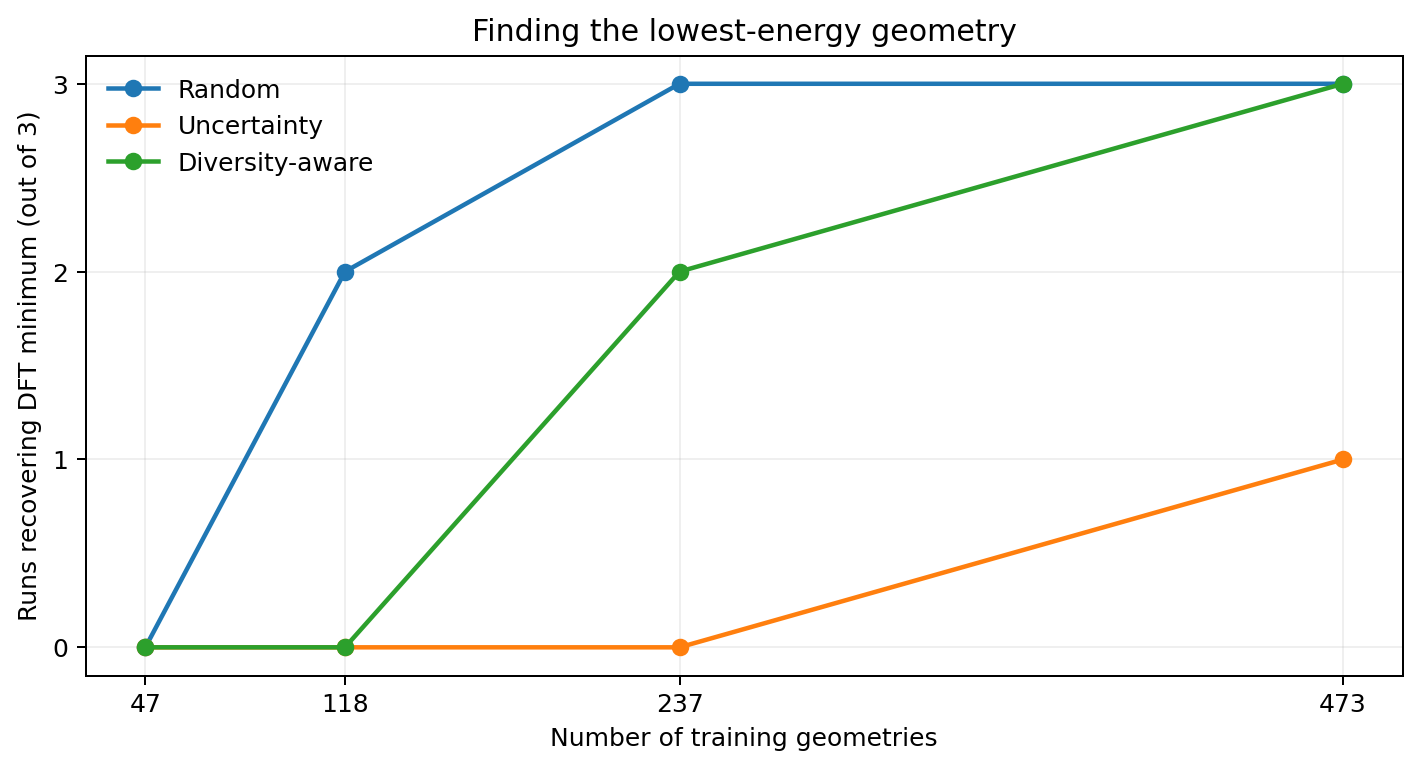
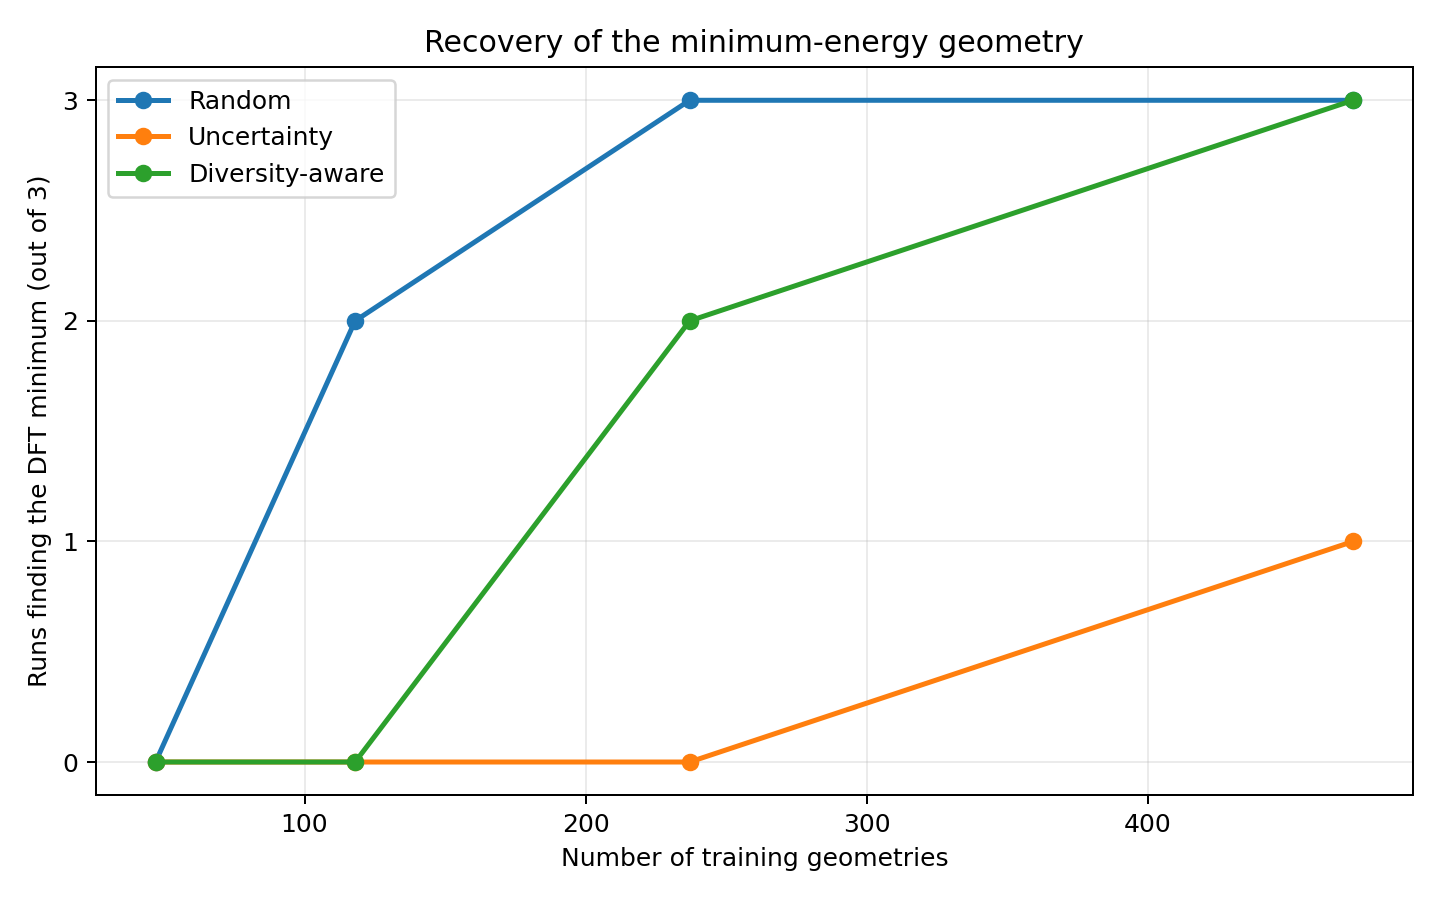
Add files via upload

diff --git a/README.md b/README.md
@@ -1,0 +1,49 @@
+# Learning the Au–CO₂⁺ potential energy surface with Gaussian Process Regression
+
+Can a molecular potential energy surface be reproduced using fewer electronic-structure calculations, and does the choice of training geometries matter?
+
+## Overview
+
+I used 2,366 existing UB3P86/def2-TZVP calculations of Au–CO₂⁺ to test how well Gaussian Process Regression can reproduce a potential energy surface from a limited number of points. The scans vary the Au–C separation (2.5–5.0 Å) and approach angle (0–90°), with the CO₂ geometry fixed. This gives a two-dimensional slice of the surface, rather than a full molecular potential.
+
+I compared random training-point selection with two alternatives: selecting geometries where the model is most uncertain, and combining uncertainty with a preference for points that are further apart. Predictions were evaluated against held-out DFT energies, alongside whether the fitted surface recovered the DFT minimum.
+
+## DFT potential energy surface
+
+![Polar Au–CO₂⁺ potential energy surface](figures/au_co2_polar_pes.png)
+
+*Polar view of the DFT scan. The lowest-energy sampled geometry is at 3.20 Å and 23°. The calculated 0–90° range is reflected for display; the short-range region is masked and high energies are colour-saturated for clarity.*
+
+## Results
+
+![Test RMSE against number of training points](figures/sampling_rmse.png)
+
+*Mean held-out prediction error across three initial training selections; error bars show standard deviation.*
+
+At 473 training geometries (20% of the dataset):
+
+| Selection method | Mean test RMSE (eV) |
+| --- | ---: |
+| Random | 0.00418 |
+| Uncertainty only | 0.03122 |
+| Uncertainty + diversity | 0.00190 |
+
+Diversity-aware selection gave the lowest mean RMSE at 118, 237 and 473 points. At 473 points, its error was approximately 55% lower than random sampling.
+
+![Recovery of the minimum-energy geometry](figures/minimum_recovery.png)
+
+*Number of runs (out of three) that recovered the DFT grid minimum at 3.20 Å and 23°.*
+
+Random sampling recovered the minimum more consistently at smaller training sizes, despite its higher overall energy error. This shows why a low average error does not necessarily guarantee an accurate prediction of a particular molecular geometry.
+
+The study uses three starting selections and a held-out subset of the same regular grid, so it primarily tests interpolation. The fixed CO₂ geometry and DFT reference calculations also limit what can be inferred about full molecular potentials or spectroscopic accuracy.
+
+## Notebook
+
+The analysis is in [`Au_CO2_Gaussian_Process_PES.ipynb`](Au_CO2_Gaussian_Process_PES.ipynb). It covers Gaussian energy extraction, the reference PES, Gaussian Process fitting and comparison of the sampling strategies.
+
+To rerun it, place the `Au_CO2_Scans` folder beside the notebook. The original Gaussian logs are not included here; their release should be agreed with the research supervisor.
+
+## Tools
+
+Python, NumPy, pandas, SciPy, scikit-learn and Matplotlib. DFT calculations were performed using Gaussian 16 (UB3P86/def2-TZVP).
